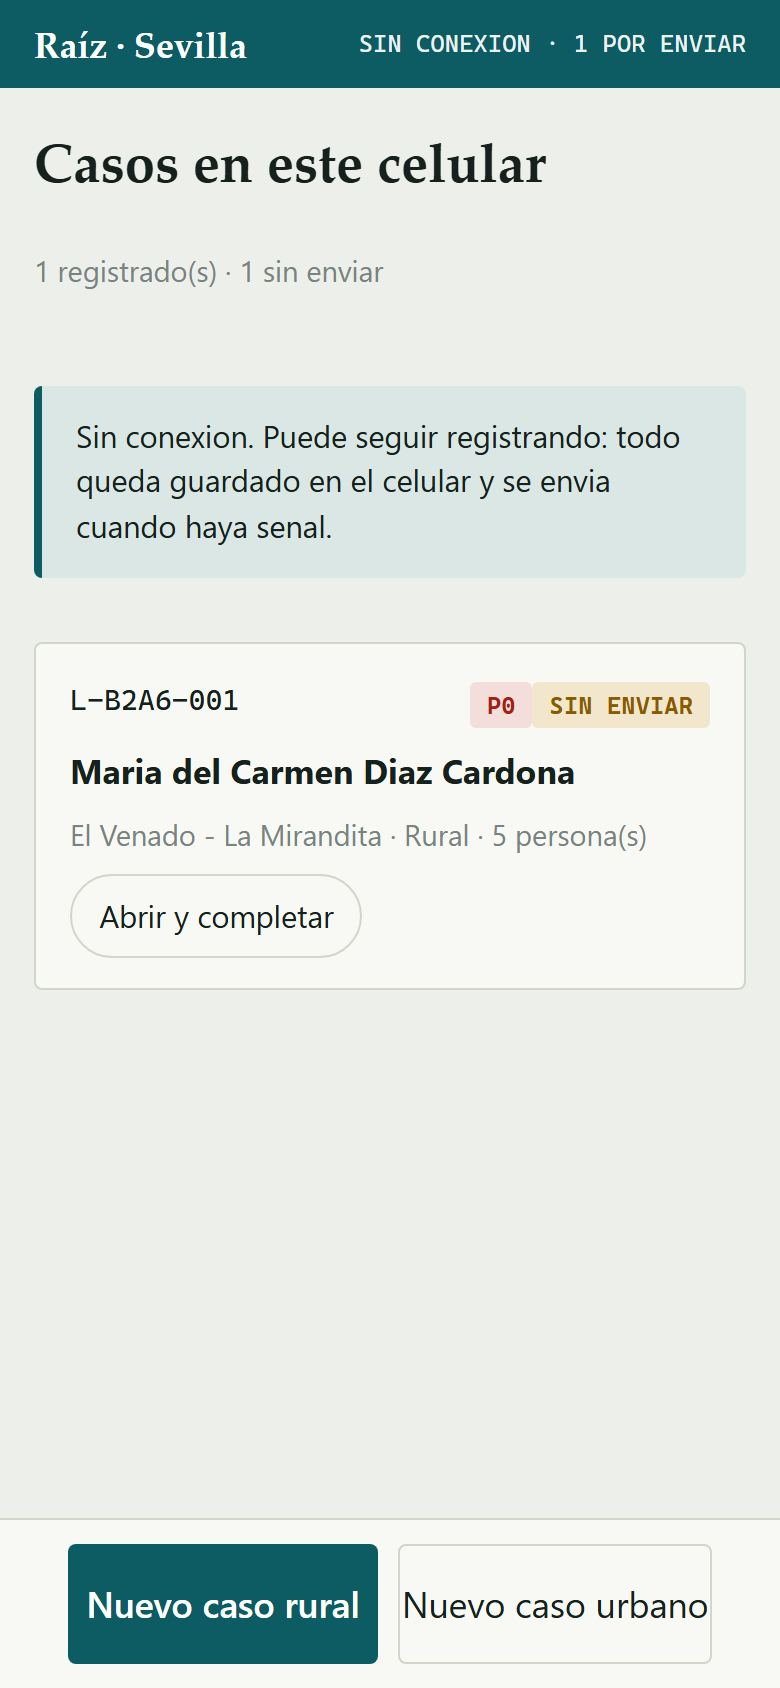
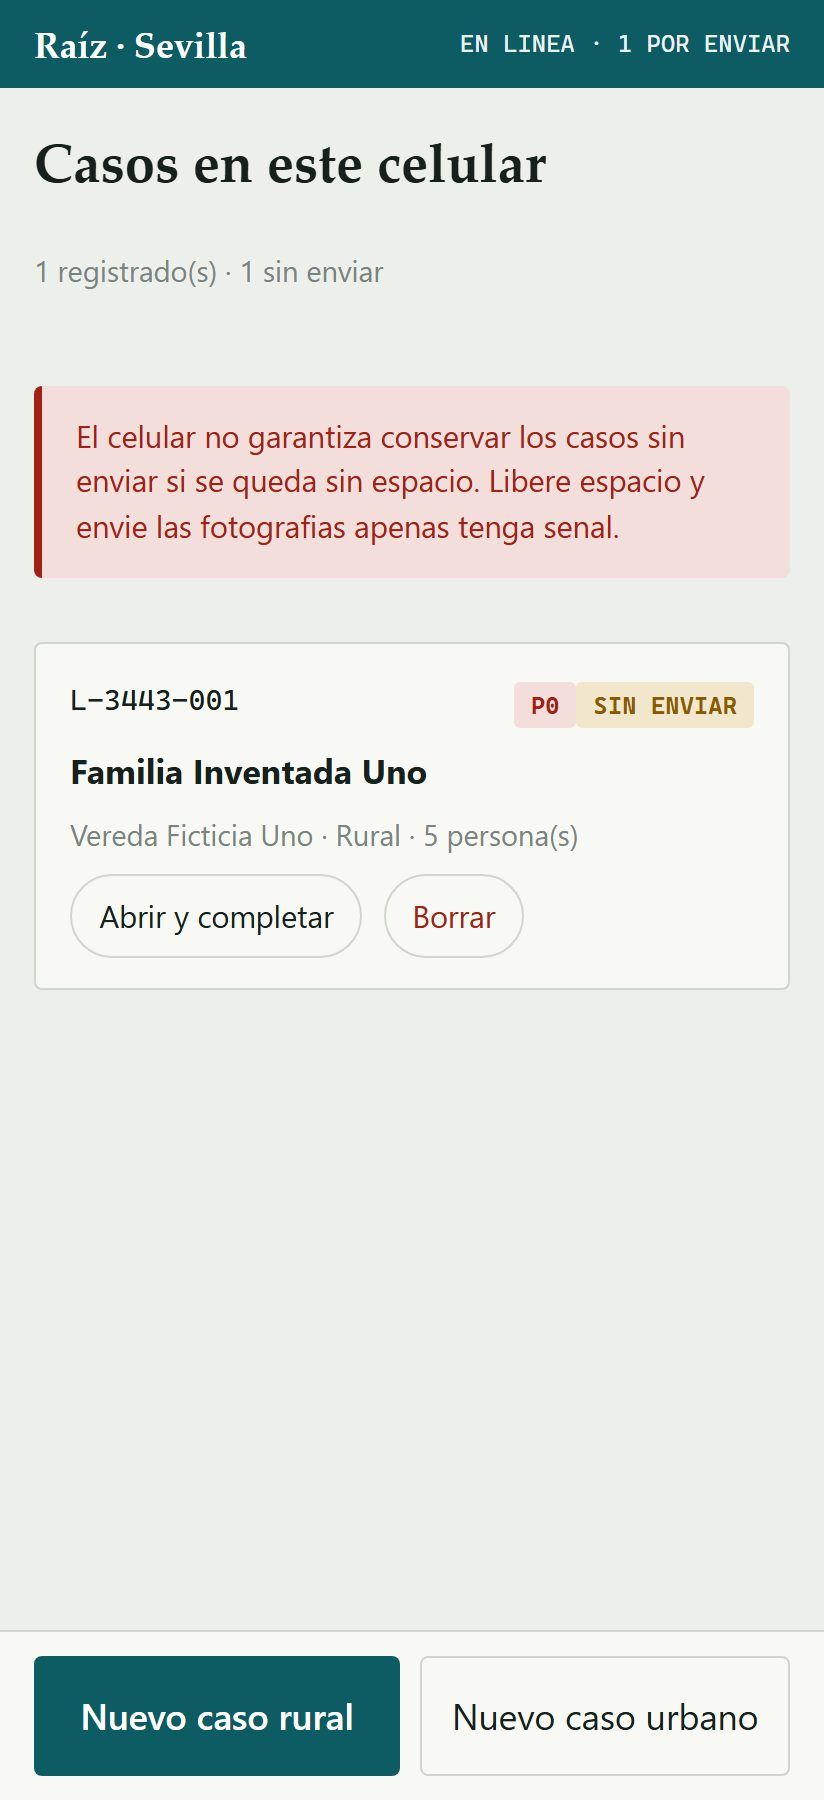
Retirar el dato de una familia real del repositorio, y HU 1.6.2
HALLAZGO. El tablero publico versionado (tablero/datos.geojson), las capturas
publicadas en docs/capturas y embebidas en el deck que se le muestra a las entidades,
la prueba de campo y el fixture de la API llevaban el nombre, la vereda y la
coordenada de una familia que reporto por WhatsApp. Ninguna de esas superficies esta
bajo control de la mesa: se versionan, se publican y salen del repositorio.

Todo reemplazado por dato inventado, con nombres de vereda deliberadamente ficticios
para que nadie confunda la muestra con el censo.

Las capturas dejan de tomarse a mano: salen de la prueba de punta a punta, que
recorre el formulario con esos datos inventados. Se agrega docs/armar-deck.mjs, que
arma el deck desde la plantilla y las capturas, y docs/capturar-tablero.mjs. Antes el
deck era medio megabyte de base64 escrito una vez y nadie podia regenerarlo.

HU 1.6.2, la documentacion deja de contradecir al codigo:

- 'la sincronizacion nunca es automatica' seguia en ESTADO.md y en el ADR 002 despues
  de que la HU 1.3.3 la reemplazara. El caso son 3 KB y viaja solo; la fotografia son
  200 KB y espera el boton.
- 12 tablas y 5 vistas: son 13 y 7, contadas contra la base.
- XLSForm de 125 preguntas: son 125 filas y unas 97 preguntas.
- El tablero generaba codigos SV-AAAA-NNNNNN y el esquema genera RZ-AAAA-NNNNNN.
- El tablero seguia llamandose SICRA y diciendo que la vista es agregada. No lo es:
  es una fila por afectacion, sin identidad.
[…]

diff --git a/docs/deck.template.html b/docs/deck.template.html
@@ -320,7 +320,7 @@
       <h2>Red apagada.<br>El caso sigue ahí.</h2>
       <p class="lead">Esta es la única demostración que importa. Con la conexión cortada, la aplicación abre, muestra los casos capturados y permite seguir registrando.</p>
       <div class="consola">
-        <div>GPS capturado: <span class="at">4.3283783, -75.9029183</span> · precision 11 m</div>
+        <div>GPS capturado: <span class="at">4.2712345, -75.9412345</span> · precision 11 m</div>
         <div>caso en la lista: <span class="at">L-B833-001</span> P0 SIN ENVIAR</div>
         <div>tras recargar la pagina siguen <span class="ok">1 caso(s)</span> en IndexedDB</div>
         <div><span class="ok">SIN CONEXION:</span> la app abre y muestra 1 caso(s)</div>

diff --git a/tablero/index.html b/tablero/index.html
@@ -3,7 +3,7 @@
 <head>
 <meta charset="utf-8">
 <meta name="viewport" content="width=device-width, initial-scale=1">
-<title>SICRA · Mapa de afectación</title>
+<title>Raíz · Mapa de afectación</title>
 <link rel="stylesheet" href="https://unpkg.com/leaflet@1.9.4/dist/leaflet.css"
       integrity="sha256-p4NxAoJBhIIN+hmNHrzRCf9tD/miZyoHS5obTRR9BMY=" crossorigin="">
 <style>
@@ -106,7 +106,7 @@
 
 <header>
   <h1>Sevilla, Valle del Cauca</h1>
-  <span class="sub">SICRA · Caracterización de familias afectadas — datos agregados</span>
+  <span class="sub">Raíz · Caracterización de familias afectadas — una fila por afectación, sin identidad</span>
   <span class="corte" id="corte">Corte: —</span>
 </header>
 

diff --git a/docs/ESTADO.md b/docs/ESTADO.md
@@ -42,7 +42,7 @@ Están cerradas. Si alguien quiere reabrir una, que traiga argumentos nuevos.
 | **Las familias no afiliadas se registran** | El censo se levanta por comités y asociaciones, pero la familia sin organización es la que más riesgo tiene de quedar invisible. |
 | **El código del caso lo asigna el servidor** | Dos voluntarios sin señal generarían el mismo consecutivo. En el dispositivo se usa un código local `L-XXXX-NNN` hasta que el servidor confirme. |
 | **Iniciar sesión exige conexión, capturar no** | Un token que caduca en el monte no puede costar una jornada de trabajo. Solo sincronizar exige sesión vigente. |
-| **La sincronización nunca es automática** | En zona rural la señal aparece y desaparece. Un envío automático consume los datos del voluntario sin que él lo decida. El botón es explícito. |
+| **El caso viaja solo; la fotografía espera el botón** | Un caso pesa unos 3 KB y una fotografía unos 200 KB. Retener el caso no ahorra datos y sí retrasa la atención, así que se envía al reconectar y al abrir la aplicación. La fotografía sí espera una decisión explícita, y en wifi se ofrece mandarla. Con el ahorro de datos activo no se manda nada sin pedirlo, y nunca hay envío en segundo plano con la aplicación cerrada. |
 | **KoboToolbox corre en paralelo y no se detiene** | La emergencia no espera a que terminemos. Las columnas de PostgreSQL replican los nombres del formulario de Kobo, así que migrar es una carga, no una reescritura. |
 | **La infraestructura va sobre AWS, no sobre Supabase** | [ADR 002](adr/002-infraestructura-en-aws.md). El acoplamiento a Supabase estaba contenido en cuatro puntos, de modo que las tablas, vistas y políticas se portan con un adaptador de unas cuarenta líneas. |
 | **El contrato de sincronización no depende del proveedor** | [ADR 003](adr/003-contrato-de-sincronizacion.md). Incluye la taxonomía de error —transporte, sesión, rechazo— que el cliente necesita para saber si reintentar, detenerse o marcar para revisión. |
@@ -54,9 +54,11 @@ Están cerradas. Si alguien quiere reabrir una, que traiga argumentos nuevos.
 
 ### Construido y probado en laboratorio
 
-Probado significa aqui: navegador de escritorio emulando un celular, con ubicacion
-simulada. **Nada de esto se ha ejecutado en un telefono real ni contra un servidor**,
-porque el servidor todavia no existe.
+Probado significa aqui: navegador de escritorio emulando un celular con ubicacion
+simulada, y la API corriendo contra PostgreSQL y Cognito reales dentro del entorno
+local. **Nada de esto se ha ejecutado en un telefono real ni sobre infraestructura
+desplegada en la nube.** Lo primero es lo mas urgente que hay y no depende de nadie
+mas; lo segundo es el hito 1.
 
 **Captura sin conexión.** Formulario de cuatro pasos con guardado incremental: si se
 cierra la aplicación en el paso 3, al volver el registro sigue ahí. Fotos comprimidas
@@ -66,15 +68,23 @@ internet.
 **Cola de sincronización.** Envía casos antes que fotos, prioridad de riesgo de vida
 primero, secuencial y no en paralelo, con idempotencia por `origen_id`: si el envío
 llega al servidor pero la respuesta se pierde por corte de señal, el reintento
-actualiza la misma fila en lugar de crear un duplicado. El cliente está escrito; el
-servidor que lo atiende, no.
+actualiza la misma fila en lugar de crear un duplicado. Los dos lados están escritos y
+el reintento está verificado contra la API y la base reales.
+
+**Servicio de sincronización.** Recibe el caso, fija la identidad del usuario dentro de
+la transacción para que las políticas de acceso sigan corriendo, asigna el consecutivo
+institucional y traduce cualquier fallo a las tres clases del contrato: transporte,
+sesión y rechazo. Corre contra el entorno local; no está desplegado.
 
 **Identidad y roles (F2).** Cinco roles, guardas de ruta, pantalla de acceso, permisos
 derivados del rol y disparador que crea el perfil al dar de alta un usuario, con el rol
-menos privilegiado por defecto. El código está; falta el servidor.
+menos privilegiado por defecto. Las tres rutas de sesión —entrar, comprobar y salir—
+responden contra Cognito, y el rol se lee del perfil en cada petición, nunca del token,
+para que la custodia pueda cambiarlo sin esperar a que caduque nada.
 
-**Modelo de datos.** 12 tablas, 5 vistas, políticas de acceso por fila y auditoría de
-cambios. La vista del mapa entrega la coordenada redondeada a tres decimales (~111 m).
+**Modelo de datos.** 13 tablas, 7 vistas, 19 políticas de acceso por fila y auditoría de
+cambios. Sin autorización de la familia, la identidad no entra: además del cliente y del
+servidor, la base la rechaza con una restricción propia. La vista del mapa entrega la coordenada redondeada a tres decimales (~111 m).
 Ver la salvedad importante en «Lo que la documentación decía de más».
 
 **Entorno local completo.** `cd entorno && make arriba` levanta PostgreSQL con PostGIS,
@@ -96,7 +106,8 @@ es repetible y se limpia sola.
 consentimiento viven en `dominio/` y los usan los dos lados. Cuando alguien agregue un
 campo de un solo lado, deja de compilar en vez de perder el dato en silencio.
 
-**Vía paralela operativa.** Formulario XLSForm de 125 preguntas listo para
+**Vía paralela operativa.** Formulario XLSForm de 125 filas —unas 97 preguntas
+reales; el resto son grupos, notas y campos calculados— listo para
 KoboToolbox, plantilla fija de reporte por WhatsApp y tablero estático con mapa. Eso
 permite capturar hoy mientras la aplicación propia madura.
 
@@ -115,8 +126,8 @@ Prueba de punta a punta en navegador real, resolución de celular, con geolocali
 
 ```
 lista abre: Casos en este celular
-GPS capturado: 4.3283783, -75.9029183 · precision 12 m
-caso en la lista: L-B833-001 P0 SIN ENVIAR ... El Venado - La Mirandita · Rural
+GPS capturado: 4.2712345, -75.9412345 · precision 12 m
+caso en la lista: L-B833-001 P0 SIN ENVIAR ... Vereda Ficticia Uno · Rural
 tras recargar la pagina siguen 1 caso(s) en IndexedDB
 SIN CONEXION: la app abre y muestra 1 caso(s)
 errores de consola: ninguno
@@ -132,9 +143,10 @@ escritorio emulando un celular. Un teléfono de gama baja con poca memoria, pant
 bajo el sol y un pulgar de verdad es otra cosa. Ese es el frente F6 y **es lo más
 urgente que hay**: no depende del servidor ni de la nube, y se puede empezar hoy.
 
-**El dato nunca ha viajado del celular a una base central**, porque esa base todavía no
-existe. La cola de sincronización está escrita contra un contrato, no contra un
-servidor que responda.
+**El dato nunca ha viajado desde un celular real por una red real.** Dentro del entorno
+local sí recorre el camino completo —cliente, API, base, con reintento y sin duplicar—,
+pero eso ocurre en una sola máquina. Falta el servidor desplegado y falta la señal
+intermitente de la vereda, que es donde este sistema tiene que aguantar.
 
 ### Revisión independiente
 

diff --git a/docs/hallazgos-revision.md b/docs/hallazgos-revision.md
@@ -280,14 +280,16 @@ el comportamiento de la cola.
 
 No cambian ninguna decisión; se anotan para que quien llegue no se confunda.
 
-| Dónde | Dice | Es |
-|---|---|---|
-| ESTADO.md §3 | 11 tablas | 12 (`perfiles` llegó con F2). Las 5 vistas y el RLS sí cuadran |
-| FRENTES.md / ROLES-Y-ESFUERZO.md | ocho frentes / lista nueve | F9 no está en FRENTES.md |
-| ROLES-Y-ESFUERZO.md | F9 pendiente | El despliegue del frontend ya está configurado; falta integración continua |
-| ESTADO.md §3 | XLSForm de 125 preguntas | 125 filas de la hoja; ~97 preguntas reales, el resto son grupos, notas y calculados |
-| `tablero/datos.geojson` | código `SV-2026-000001` | El esquema genera `RZ-AAAA-NNNNNN` |
-| Configuración de despliegue | endurecimiento de cabeceras | Sin política de seguridad de contenido |
+| Dónde | Decía | Es | Estado |
+|---|---|---|---|
+| ESTADO.md §3 | 11 tablas | 13 tablas, 7 vistas, 19 políticas | Corregido, HU 1.6.2 |
+| FRENTES.md / ROLES-Y-ESFUERZO.md | ocho frentes / lista nueve | F9 no está en FRENTES.md | Pendiente |
+| ROLES-Y-ESFUERZO.md | F9 pendiente | El despliegue del frontend ya está configurado; falta integración continua | Pendiente |
+| ESTADO.md §3 | XLSForm de 125 preguntas | 125 filas de la hoja; ~97 preguntas reales, el resto son grupos, notas y calculados | Corregido, HU 1.6.2 |
+| `tablero/datos.geojson` | código `SV-2026-000001` | El esquema genera `RZ-AAAA-NNNNNN` | Corregido, HU 1.6.2 |
+| Configuración de despliegue | endurecimiento de cabeceras | Sin política de seguridad de contenido | Corregido, HU 1.6.2 |
+| ESTADO.md §2 y ADR 002 | la sincronización nunca es automática | El caso viaja solo al reconectar; la fotografía espera el botón | Corregido, HU 1.6.2 |
+| `tablero/datos.geojson` | vista pública agregada, con dato de muestra | Era una fila por familia y el dato era **real**: coordenada y vereda de un caso llegado por WhatsApp | Corregido: dato inventado y nota rehecha |
 
 ---
 

diff --git a/docs/adr/002-infraestructura-en-aws.md b/docs/adr/002-infraestructura-en-aws.md
@@ -54,8 +54,13 @@ es negociable por conveniencia de la nube:
 
 1. **La aplicación funciona sin el servidor.** La captura ocurre en el
    dispositivo. La disponibilidad del backend no es crítica.
-2. **La sincronización nunca es automática.** El botón es explícito porque los
-   datos móviles los paga el voluntario.
+2. **Los datos móviles los paga el voluntario y la aplicación lo respeta.**
+   [Actualizado por la HU 1.3.3, agosto de 2026. La versión original de este ADR
+   decía "la sincronización nunca es automática". Se corrigió al distinguir los
+   dos pesos: el caso son unos 3 KB y viaja solo al reconectar; la fotografía son
+   unos 200 KB y sigue esperando el botón. Retener el caso no ahorraba datos y sí
+   retrasaba la atención. Con el ahorro de datos activo no se manda nada sin
+   pedirlo, y nunca hay envío en segundo plano con la aplicación cerrada.]
 3. **Iniciar sesión exige conexión; capturar, no.** Un token vencido en el monte
    no puede costar una jornada.
 4. **Una sola base de datos, tres reportes.** El total consolidado es la palanca
@@ -76,7 +81,7 @@ contenido en cuatro puntos:
 | Disparador `after insert on auth.users` | Lambda de Post-Confirmation de Cognito |
 
 Con un shim de unas 40 líneas —[`entorno/postgres/00-shim-auth.sql`](../../entorno/postgres/00-shim-auth.sql)—
-**las 12 tablas, las 5 vistas, todas las políticas RLS y los seis hallazgos
+**las 13 tablas, las 7 vistas, todas las políticas RLS y los seis hallazgos
 corregidos en [SEGURIDAD.md](../../supabase/SEGURIDAD.md) sobreviven sin
 reescribirse.** El disparador que crea el perfil con el rol menos privilegiado
 sigue funcionando tal cual.
